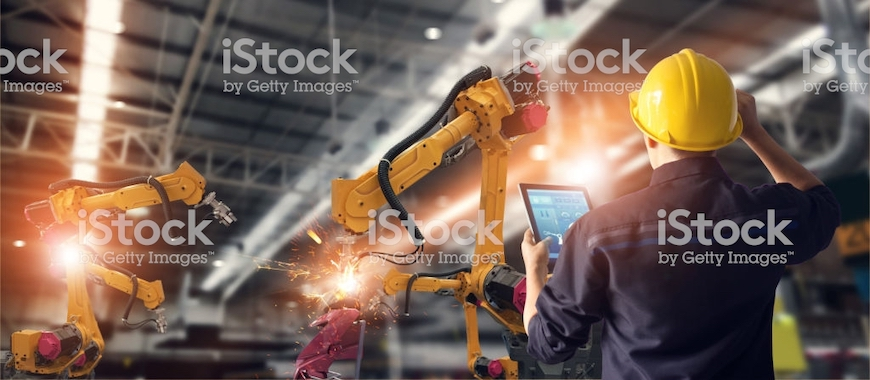
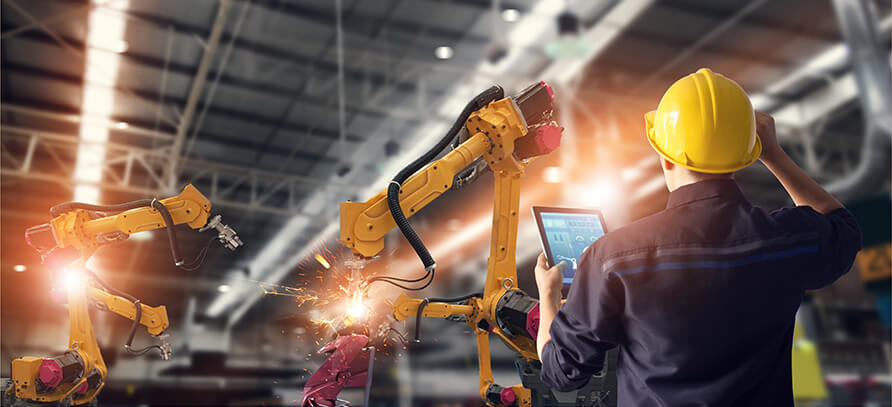
the content images are updated for what we offer page

diff --git a/ukef/templates/ukef/what_we_offer.html b/ukef/templates/ukef/what_we_offer.html
@@ -52,7 +52,7 @@
 
         <div class="grid-row">
           <div class="column-three-quarters">
-            <img src="{% static 'images/what-we-offer-you-hero.png' %}" alt="" class="width-full">
+            <img src="{% static 'images/what-we-offer-you-hero.jpg' %}" alt="" class="width-full">
 
             <section class="grid-row">
               <div class="column-seven-ninths article-content padding-bottom-0">
